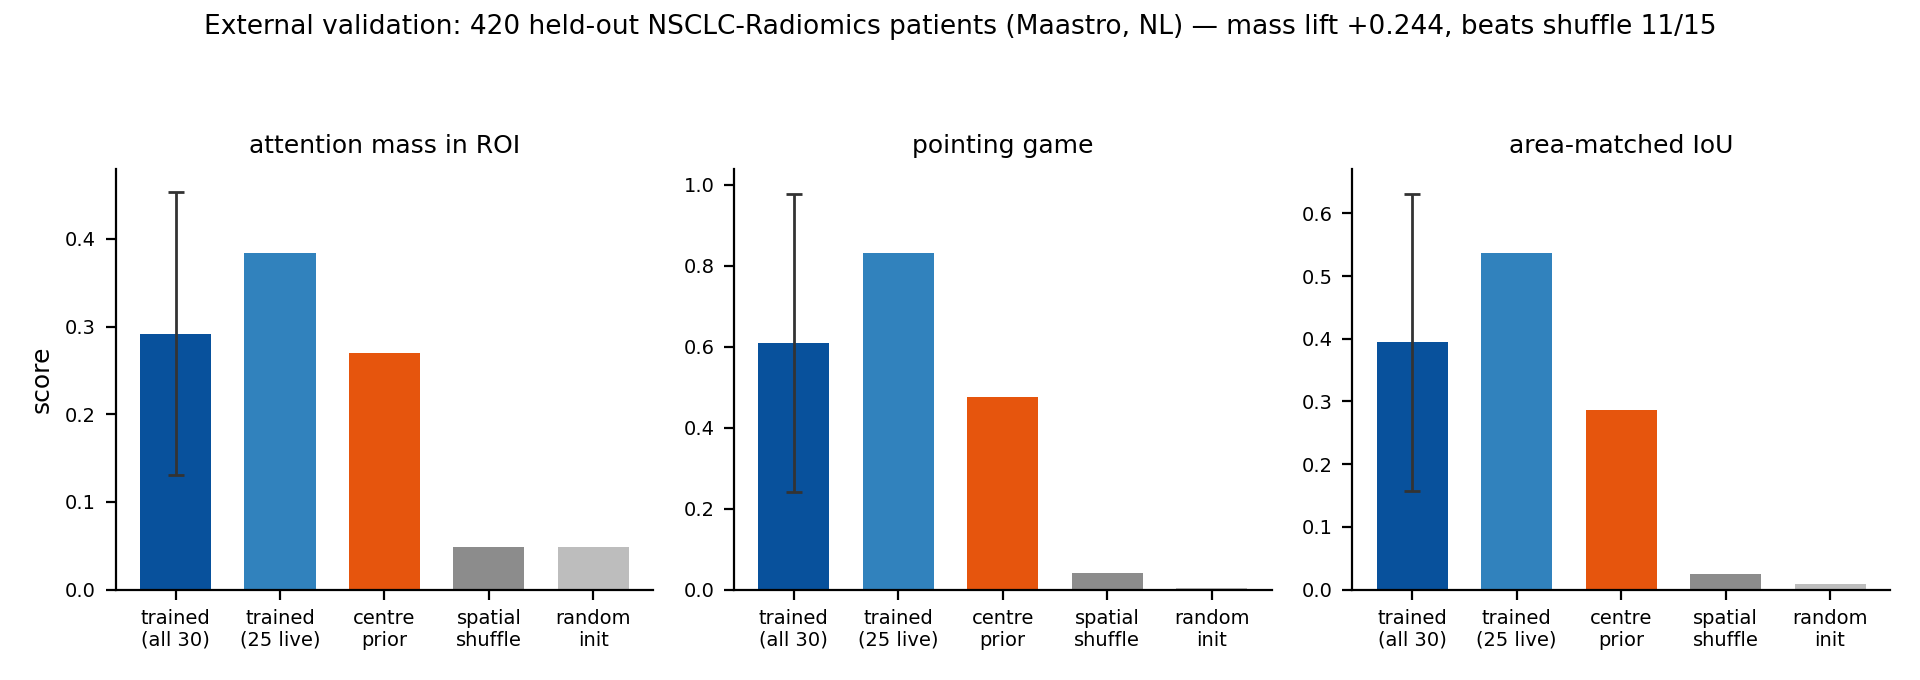
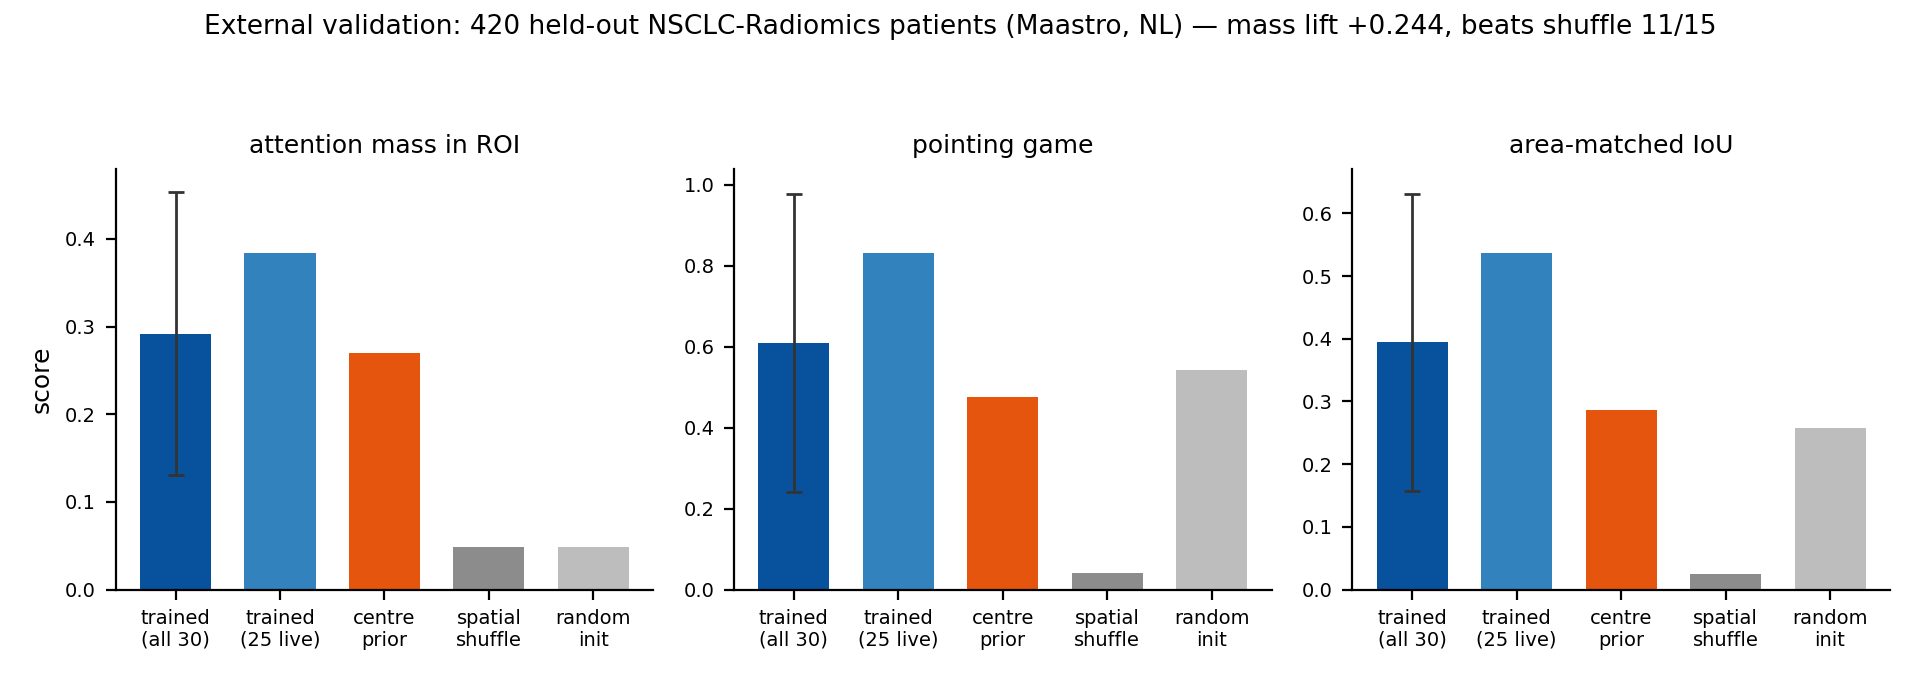
Repair reproduce.sh, which the fusion fix had silently broken
The manuscript's load-bearing claim is that every number regenerates from
archived out-of-fold predictions by a single script. That claim was false.

When the fusion provenance bug was fixed, fusion.json's schema changed from
{"results": ...} to {"aggregate": ..., "per_run": ...} so it could carry
across-seed means and per-run p-values. The artifact was right and the manuscript
was right; step 7 of reproduce.sh still read the old keys and died on a KeyError.
Nobody would have noticed until a reviewer ran it, which is the worst possible
time to find out the reproducibility script does not reproduce.

Step 7 now reads the current schema and additionally prints which runs the
artifact was built from, flagging loudly if they are not the canonical set --
the provenance bug would have been visible in the script's own output.

Verified by running the whole thing end to end: zero errors, and it regenerates
the headline 0.618 +/- 0.025, the primary endpoint +0.244 beating shuffle in
11/15 with GATE D PASS, clinical 0.764, and Riley 1159 on 14 fitted parameters.

tests/test_reproduce_contract.py extracts every embedded reader block from the
script and executes it against the real artifacts. Running the full script in the
suite would be slow and would duplicate the analysis modules' own tests; the part
that goes stale is the read path, and that is now covered. It also asserts the
fusion block reports the canonical runs and the headline AUC, so a
[…]

Changed region(s): [[0.5938, 0.525, 0.6562, 0.8647], [0.9375, 0.6176, 0.9688, 0.8647]]

diff --git a/tests/test_reproduce_contract.py b/tests/test_reproduce_contract.py
@@ -1,0 +1,67 @@
+"""`scripts/reproduce.sh` is the manuscript's load-bearing claim.
+
+The paper says every number regenerates from archived predictions by a single
+script. That claim broke silently when fusion.json's schema changed from
+{"results": ...} to {"aggregate": ..., "per_run": ...} during the provenance fix:
+the artifact was correct, the manuscript was correct, and the script that is
+supposed to prove it crashed with a KeyError.
+
+Running the whole script here would be slow, so instead the embedded reader
+blocks are extracted and executed against the real artifacts. That is the part
+that goes stale -- the analysis modules have their own tests.
+"""
+from __future__ import annotations
+
+import os
+import re
+import subprocess
+import sys
+
+import pytest
+
+SCRIPT = "scripts/reproduce.sh"
+
+pytestmark = pytest.mark.skipif(not os.path.exists(SCRIPT),
+                                reason="reproduce.sh not present")
+
+
+def _blocks() -> list[tuple[int, str]]:
+    """Every `python - <<'PY' ... PY` heredoc, with the line it starts on."""
+    src = open(SCRIPT).read().splitlines()
+    out, buf, start = [], None, 0
+    for i, line in enumerate(src, 1):
+        if re.match(r"\s*python\s+-\s+<<'PY'\s*$", line):
+            buf, start = [], i
+        elif buf is not None and line.strip() == "PY":
+            out.append((start, "\n".join(buf)))
+            buf = None
+        elif buf is not None:
+            buf.append(line)
+    return out
+
+
+def test_script_has_reader_blocks():
+    assert _blocks(), "no embedded python blocks found; did the script change?"
+
+
+@pytest.mark.parametrize("idx", range(len(_blocks())))
+def test_each_reader_block_runs_against_the_real_artifacts(idx):
+    line, code = _blocks()[idx]
+    proc = subprocess.run([sys.executable, "-c", code],
+                          capture_output=True, text=True)
+    assert proc.returncode == 0, (
+        f"reproduce.sh block at line {line} fails against the current "
+        f"artifacts:\n{proc.stderr.strip()[-800:]}")
+
+
+def test_fusion_block_reports_the_canonical_runs():
+    """A reader that silently accepted a non-canonical artifact would hide the
+    exact bug this file exists to catch."""
+    code = [c for _, c in _blocks() if "fusion.json" in c]
+    assert code, "no fusion reader in reproduce.sh"
+    proc = subprocess.run([sys.executable, "-c", code[0]],
+                          capture_output=True, text=True)
+    assert proc.returncode == 0
+    assert "NOT the canonical set" not in proc.stdout, (
+        "fusion.json was not built from CANONICAL.json")
+    assert "0.618" in proc.stdout, "fusion arm should equal the headline"
